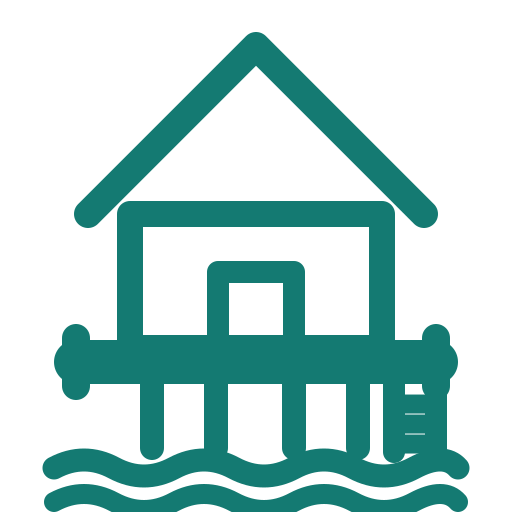
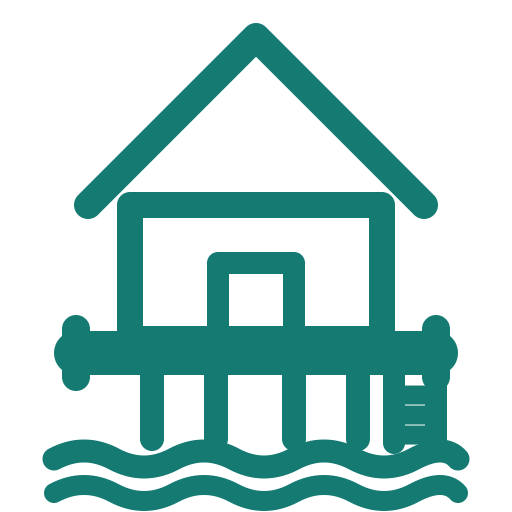
image

diff --git a/resources/views/layouts/guest.blade.php b/resources/views/layouts/guest.blade.php
@@ -35,9 +35,9 @@
     <body class="font-sans text-gray-900 antialiased">
         <div class="min-h-screen flex flex-col sm:justify-center items-center pt-6 sm:pt-0 bg-gray-50">
             <div class="mb-6">
-                <a href="/" class="flex flex-col items-center gap-2">
-                    <x-logo variant="icon" class="h-16 w-16" />
-                    <x-logo variant="full" class="h-8" />
+                <a href="/" class="flex flex-col items-center gap-3">
+                    <x-logo variant="icon" class="h-24 w-24" />
+                    <span class="text-xl font-bold tracking-wide text-[#147a72]">Isla.Ar</span>
                 </a>
             </div>
 
